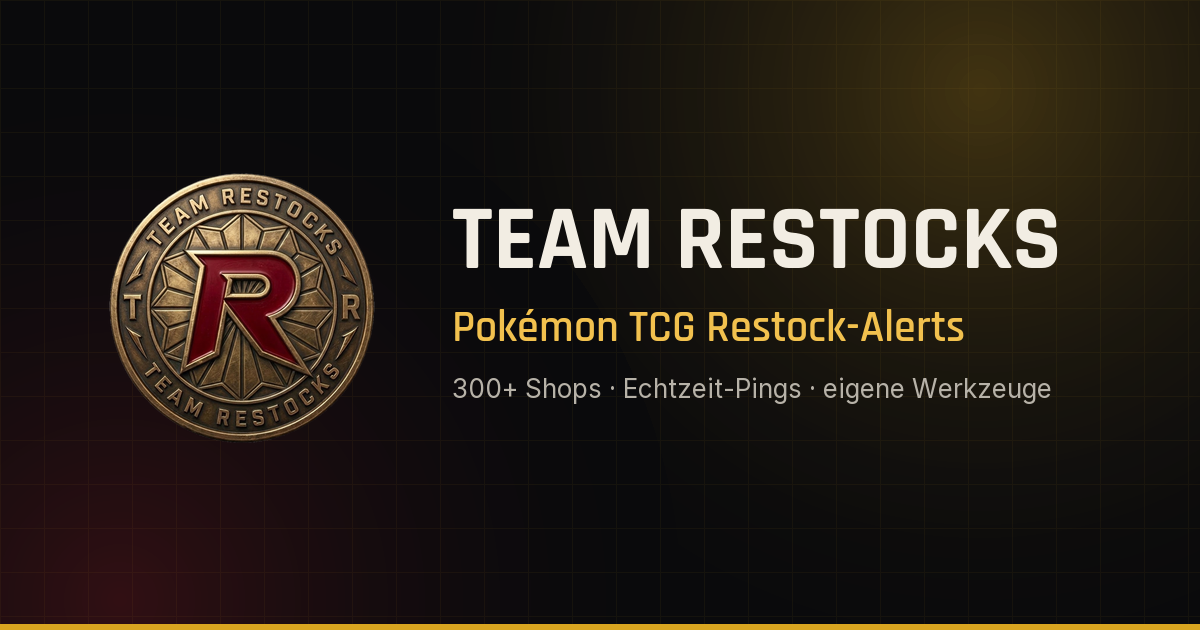
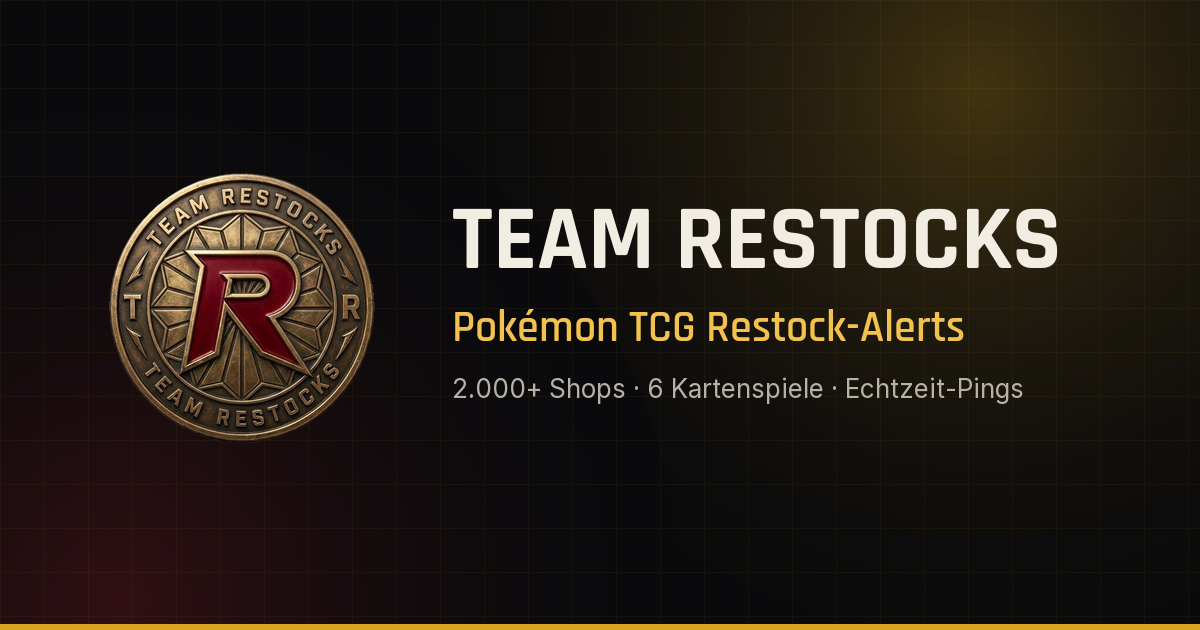
Raise monitor count to 2.000+ shops and widen the content
- Hero counter, process step, feature card and all meta descriptions now say
  2.000+ shops instead of 300+, and "Stores" becomes "Shops" throughout. The
  counter renders a German thousands separator (2.000+ instead of 2000+).
- Six card games instead of three: the monitor registry in monitor_api.py
  covers Pokémon, One Piece, Magic, Lorcana, Dragon Ball and Riftbound, but
  the site only advertised the first three. Hero text, feature card, FAQ and
  the structured data now name all six.
- New pill rows in the Leistungen section: the six card games and a selection
  of sixteen monitored shops, with a note that further shops and deal sources
  such as MyDealz and Reddit are covered.
- FAQ grown from five to nine entries: what a restock actually is, that
  nothing is ever bought automatically, coverage in Austria and Switzerland,
  and how to cancel (wording taken from AGB § 6, not invented). The FAQPage
  markup is regenerated from the visible accordion, so it stays in sync.
- Open Graph banner re-rendered with the new figures.
- Fixed a pre-existing responsive bug: .footer-links had no flex-wrap, so the
  seven footer links ran 16px out of the viewport at around 540px width.

Changed region(s): [[0.37, 0.6032, 0.8942, 0.6333]]

diff --git a/index.html b/index.html
@@ -4,7 +4,7 @@
 <meta charset="UTF-8">
 <meta name="viewport" content="width=device-width, initial-scale=1.0">
 <title>Pokémon TCG Restock-Alerts &amp; Monitor | Team Restocks</title>
-<meta name="description" content="Restock-Alerts für Pokémon TCG in Echtzeit: 300+ Shops im Monitor, exklusive Instore-Infos und eigene Werkzeuge für Sammler, Investoren &amp; Reseller.">
+<meta name="description" content="Restock-Alerts in Echtzeit für Pokémon, One Piece, Magic, Lorcana, Dragon Ball &amp; Riftbound: über 2.000 Shops im Monitor, Instore-Infos und eigene Werkzeuge.">
 <meta name="robots" content="index, follow, max-image-preview:large, max-snippet:-1">
 <meta name="theme-color" content="#0a0a0c">
 <meta name="author" content="Team Restocks">
@@ -14,7 +14,7 @@
 <meta property="og:site_name" content="Team Restocks">
 <meta property="og:locale" content="de_DE">
 <meta property="og:title" content="Team Restocks – Pokémon TCG Restock-Alerts in Echtzeit">
-<meta property="og:description" content="300+ Shops im Monitor, Instore-Infos, Filialbestands-Prüfer, Fake-Shop-Checker, Auto-fill und Multi Browser – für Sammler, Investoren und Reseller.">
+<meta property="og:description" content="2.000+ Shops im Monitor, sechs Kartenspiele, Instore-Infos und eigene Werkzeuge: Filialbestands-Prüfer, Fake-Shop-Checker, Auto-fill und Multi Browser.">
 <meta property="og:url" content="https://teamrestocks.de/">
 <meta property="og:image" content="https://teamrestocks.de/assets/og-image.png">
 <meta property="og:image:width" content="1200">
@@ -22,7 +22,7 @@
 <meta property="og:image:alt" content="Team Restocks – Pokémon TCG Restock-Alerts">
 <meta name="twitter:card" content="summary_large_image">
 <meta name="twitter:title" content="Team Restocks – Pokémon TCG Restock-Alerts in Echtzeit">
-<meta name="twitter:description" content="300+ Shops im Monitor, Instore-Infos, Filialbestands-Prüfer, Fake-Shop-Checker, Auto-fill und Multi Browser – für Sammler, Investoren und Reseller.">
+<meta name="twitter:description" content="2.000+ Shops im Monitor, sechs Kartenspiele, Instore-Infos und eigene Werkzeuge: Filialbestands-Prüfer, Fake-Shop-Checker, Auto-fill und Multi Browser.">
 <meta name="twitter:image" content="https://teamrestocks.de/assets/og-image.png">
 <meta name="twitter:image:alt" content="Team Restocks – Pokémon TCG Restock-Alerts">
 
@@ -34,7 +34,7 @@
 <link rel="preload" href="assets/fonts/inter-400-latin.woff2" as="font" type="font/woff2" crossorigin>
 <link rel="preload" href="assets/fonts/rajdhani-700-latin.woff2" as="font" type="font/woff2" crossorigin>
 <link rel="stylesheet" href="assets/fonts/fonts.css?v=1">
-<link rel="stylesheet" href="css/style.css?v=13">
+<link rel="stylesheet" href="css/style.css?v=14">
 
 <script type="application/ld+json">
 {
@@ -53,7 +53,7 @@
         "height": 512
       },
       "image": "https://teamrestocks.de/assets/og-image.png",
-      "description": "Community für Pokémon TCG, One Piece TCG und Magic: The Gathering mit Restock-Alerts in Echtzeit, Instore-Infos und eigenen Werkzeugen für Sammler, Investoren und Reseller.",
+      "description": "Community für Pokémon TCG, One Piece, Magic: The Gathering, Lorcana, Dragon Ball und Riftbound mit Restock-Alerts in Echtzeit, Instore-Infos und eigenen Werkzeugen für Sammler, Investoren und Reseller.",
       "email": "restock@teamrestocks.de",
       "address": {
         "@type": "PostalAddress",
@@ -91,7 +91,7 @@
       "@id": "https://teamrestocks.de/#webpage",
       "url": "https://teamrestocks.de/",
       "name": "Pokémon TCG Restock-Alerts & Monitor | Team Restocks",
-      "description": "Restock-Alerts für Pokémon TCG in Echtzeit: 300+ Shops im Monitor, exklusive Instore-Infos und eigene Werkzeuge für Sammler, Investoren & Reseller.",
+      "description": "Restock-Alerts in Echtzeit für Pokémon, One Piece, Magic, Lorcana, Dragon Ball & Riftbound: über 2.000 Shops im Monitor, Instore-Infos und eigene Werkzeuge.",
       "inLanguage": "de-DE",
       "isPartOf": {
         "@id": "https://teamrestocks.de/#website"
@@ -130,10 +130,10 @@
         },
         {
           "@type": "Question",
-          "name": "Welche Produkte überwacht ihr?",
+          "name": "Welche Kartenspiele überwacht ihr?",
           "acceptedAnswer": {
             "@type": "Answer",
-            "text": "Aktuell Pokémon TCG, One Piece TCG und Magic: The Gathering, dazu lokale und EU-weite Deals über MyDealz & Reddit."
+            "text": "Sechs Kartenspiele: Pokémon TCG, One Piece Card Game, Magic: The Gathering, Disney Lorcana, Dragon Ball Fusion World und Riftbound. Dazu lokale und EU-weite Deals über MyDealz & Reddit."
           }
         },
         {
@@ -142,6 +142,38 @@
           "acceptedAnswer": {
             "@type": "Answer",
             "text": "Ja. Filialbestands-Prüfer, Fake-Shop-Checker, Auto-fill Addon und Multi Browser sind für aktive Mitglieder freigeschaltet — die Anmeldung läuft über dein Discord-Konto. Zu jedem Werkzeug gibt es eine Schritt-für-Schritt-Anleitung."
+          }
+        },
+        {
+          "@type": "Question",
+          "name": "Was ist ein Restock überhaupt?",
+          "acceptedAnswer": {
+            "@type": "Answer",
+            "text": "Ein Restock ist der Moment, in dem ein ausverkauftes Produkt wieder in den Bestand eines Shops läuft — oft ohne Ankündigung und nach wenigen Minuten wieder weg. Genau diese Momente melden unsere Monitore, zusammen mit dem Direktlink zum Produkt."
+          }
+        },
+        {
+          "@type": "Question",
+          "name": "Kauft ihr automatisch für mich ein?",
+          "acceptedAnswer": {
+            "@type": "Answer",
+            "text": "Nein. Wir melden dir Verfügbarkeiten und erleichtern dir den Checkout — bestellt wird nie automatisch. Auch das Auto-fill Addon trägt nur deine eigenen Daten ein; den Kauf schließt du immer selbst ab."
+          }
+        },
+        {
+          "@type": "Question",
+          "name": "Funktioniert das auch in Österreich und der Schweiz?",
+          "acceptedAnswer": {
+            "@type": "Answer",
+            "text": "Ja. Neben Deutschland überwachen wir Shops in Österreich, der Schweiz und weiteren EU-Ländern. Der Filialbestands-Prüfer deckt derzeit deutsche Filialisten ab."
+          }
+        },
+        {
+          "@type": "Question",
+          "name": "Wie kündige ich die Mitgliedschaft?",
+          "acceptedAnswer": {
+            "@type": "Answer",
+            "text": "Die Mitgliedschaft läuft monatlich und ist jederzeit zum Ende des bereits bezahlten Abrechnungszeitraums kündbar — über die Kündigungsfunktion auf der Beitrittsseite oder per E-Mail an restock@teamrestocks.de. Details stehen in unseren AGB."
           }
         },
         {
@@ -200,8 +232,8 @@
       <h1 class="reveal">Verpasse nie wieder<br><span class="text-gold">einen Restock.</span></h1>
       <p class="hero-sub reveal">
         🔥 Restocks · Neue Releases · Deals &nbsp;—&nbsp; 💎 Für Sammler, Investoren &amp; Reseller.
-        Team Restocks überwacht Pokémon, One&nbsp;Piece &amp; Magic: The Gathering in Echtzeit, damit du deinem
-        nächsten Drop immer einen Schritt voraus bist.
+        Team Restocks überwacht Pokémon, One&nbsp;Piece, Magic, Lorcana, Dragon&nbsp;Ball und Riftbound in
+        Echtzeit, damit du deinem nächsten Drop immer einen Schritt voraus bist.
       </p>
       <div class="hero-actions reveal">
         <a href="https://joinourserver.com/teamrestocks" target="_blank" rel="noopener" class="btn btn-primary btn-pulse">
@@ -215,7 +247,7 @@
       </div>
 
       <div class="hero-stats reveal">
-        <div class="stat"><span class="stat-num" data-count="300" data-suffix="+">0</span><span class="stat-label">überwachte Stores</span></div>
+        <div class="stat"><span class="stat-num" data-count="2000" data-suffix="+">0</span><span class="stat-label">überwachte Shops</span></div>
         <div class="stat"><span class="stat-num" data-static="24/7">0</span><span class="stat-label">Support</span></div>
       </div>
     </div>
@@ -252,7 +284,7 @@
           <span class="process-num">02</span>
           <div class="process-icon">🔔</div>
           <h3>Restock-Ping erhalten</h3>
-          <p>Unsere Monitore scannen 300+ Stores rund um die Uhr und pingen dich in Echtzeit an.</p>
+          <p>Unsere Monitore scannen über 2.000 Shops rund um die Uhr und pingen dich in Echtzeit an.</p>
         </div>
         <div class="process-card reveal">
           <span class="process-num">03</span>
@@ -273,8 +305,8 @@
       <div class="feature-grid">
         <div class="feature-card reveal">
           <div class="feature-icon">🛰</div>
-          <h3>Monitoring von 300+ Stores</h3>
-          <p>Wir überwachen laufend über 300 Stores in DE &amp; EU auf Lagerbestand und neue Drops.</p>
+          <h3>Monitoring von 2.000+ Shops</h3>
+          <p>Wir überwachen laufend über 2.000 Shops in DE, AT, CH und der EU auf Lagerbestand und neue Drops — vom großen Händler bis zum kleinen TCG-Laden.</p>
         </div>
         <div class="feature-card reveal">
           <div class="feature-icon">🔔</div>
@@ -283,8 +315,9 @@
         </div>
         <div class="feature-card reveal">
           <div class="feature-icon">🃏</div>
-          <h3>Pokémon, One Piece &amp; Magic</h3>
-          <p>Eigene Monitor-Channels für Pokémon TCG, One Piece TCG und Magic: The Gathering.</p>
+          <h3>Sechs Kartenspiele im Blick</h3>
+          <p>Eigene Monitor-Channels für Pokémon, One Piece, Magic: The Gathering, Lorcana,
+            Dragon Ball und Riftbound.</p>
         </div>
         <div class="feature-card reveal">
           <div class="feature-icon">🏬</div>
@@ -304,6 +337,18 @@
       </div>
 
       <div class="regions reveal">
+        <p class="regions-label">Überwachte Kartenspiele</p>
+        <div class="regions-flags">
+          <span class="flag-pill">Pokémon TCG</span>
+          <span class="flag-pill">One Piece Card Game</span>
+          <span class="flag-pill">Magic: The Gathering</span>
+          <span class="flag-pill">Disney Lorcana</span>
+          <span class="flag-pill">Dragon Ball Fusion World</span>
+          <span class="flag-pill">Riftbound</span>
+        </div>
+      </div>
+
+      <div class="regions reveal">
         <p class="regions-label">Abgedeckte Regionen</p>
         <div class="regions-flags">
           <span class="flag-pill">🇩🇪 Deutschland</span>
@@ -311,6 +356,32 @@
           <span class="flag-pill">🇨🇭 Schweiz</span>
           <span class="flag-pill">🇪🇺 weitere EU-Länder</span>
         </div>
+      </div>
+
+      <div class="regions reveal">
+        <p class="regions-label">Shops im Monitor &mdash; eine Auswahl</p>
+        <div class="regions-flags">
+          <span class="flag-pill">Pokémon Center</span>
+          <span class="flag-pill">Thalia</span>
+          <span class="flag-pill">Netto-Online</span>
+          <span class="flag-pill">Elbenwald</span>
+          <span class="flag-pill">Games Island</span>
+          <span class="flag-pill">Card Corner</span>
+          <span class="flag-pill">Card Cosmos</span>
+          <span class="flag-pill">Card Knights</span>
+          <span class="flag-pill">CardsFerret</span>
+          <span class="flag-pill">Comic Planet</span>
+          <span class="flag-pill">Trader Online</span>
+          <span class="flag-pill">Mighty Cards</span>
+          <span class="flag-pill">Gamers Academy</span>
+          <span class="flag-pill">Yonko TCG</span>
+          <span class="flag-pill">LMS-Handel</span>
+          <span class="flag-pill">Hunter Collectors</span>
+        </div>
+        <p class="regions-note">
+          Dazu viele weitere Online-Shops, Filialisten und Deal-Quellen wie MyDealz und Reddit.
+          Kommt ein Shop neu dazu, läuft der Monitor meist am selben Tag.
+        </p>
       </div>
     </div>
   </section>
@@ -737,12 +808,28 @@
           <div class="accordion-panel"><p>Nein. Ob Sammler, Einsteiger oder erfahrener Reseller — unsere Guides und der Support helfen dir beim Start.</p></div>
         </div>
         <div class="accordion-item">
-          <button class="accordion-trigger">Welche Produkte überwacht ihr?<span class="accordion-plus">+</span></button>
-          <div class="accordion-panel"><p>Aktuell Pokémon TCG, One Piece TCG und Magic: The Gathering, dazu lokale und EU-weite Deals über MyDealz &amp; Reddit.</p></div>
+          <button class="accordion-trigger">Welche Kartenspiele überwacht ihr?<span class="accordion-plus">+</span></button>
+          <div class="accordion-panel"><p>Sechs Kartenspiele: Pokémon TCG, One Piece Card Game, Magic: The Gathering, Disney Lorcana, Dragon Ball Fusion World und Riftbound. Dazu lokale und EU-weite Deals über MyDealz &amp; Reddit.</p></div>
         </div>
         <div class="accordion-item">
           <button class="accordion-trigger">Sind die Tools in der Mitgliedschaft enthalten?<span class="accordion-plus">+</span></button>
           <div class="accordion-panel"><p>Ja. Filialbestands-Prüfer, Fake-Shop-Checker, Auto-fill Addon und Multi Browser sind für aktive Mitglieder freigeschaltet — die Anmeldung läuft über dein Discord-Konto. Zu jedem Werkzeug gibt es eine Schritt-für-Schritt-Anleitung.</p></div>
+        </div>
+        <div class="accordion-item">
+          <button class="accordion-trigger">Was ist ein Restock überhaupt?<span class="accordion-plus">+</span></button>
+          <div class="accordion-panel"><p>Ein Restock ist der Moment, in dem ein ausverkauftes Produkt wieder in den Bestand eines Shops läuft — oft ohne Ankündigung und nach wenigen Minuten wieder weg. Genau diese Momente melden unsere Monitore, zusammen mit dem Direktlink zum Produkt.</p></div>
+        </div>
+        <div class="accordion-item">
+          <button class="accordion-trigger">Kauft ihr automatisch für mich ein?<span class="accordion-plus">+</span></button>
+          <div class="accordion-panel"><p>Nein. Wir melden dir Verfügbarkeiten und erleichtern dir den Checkout — bestellt wird nie automatisch. Auch das Auto-fill Addon trägt nur deine eigenen Daten ein; den Kauf schließt du immer selbst ab.</p></div>
+        </div>
+        <div class="accordion-item">
+          <button class="accordion-trigger">Funktioniert das auch in Österreich und der Schweiz?<span class="accordion-plus">+</span></button>
+          <div class="accordion-panel"><p>Ja. Neben Deutschland überwachen wir Shops in Österreich, der Schweiz und weiteren EU-Ländern. Der Filialbestands-Prüfer deckt derzeit deutsche Filialisten ab.</p></div>
+        </div>
+        <div class="accordion-item">
+          <button class="accordion-trigger">Wie kündige ich die Mitgliedschaft?<span class="accordion-plus">+</span></button>
+          <div class="accordion-panel"><p>Die Mitgliedschaft läuft monatlich und ist jederzeit zum Ende des bereits bezahlten Abrechnungszeitraums kündbar — über die Kündigungsfunktion auf der Beitrittsseite oder per E-Mail an restock@teamrestocks.de. Details stehen in unseren AGB.</p></div>
         </div>
         <div class="accordion-item">
           <button class="accordion-trigger">Wie schnell sind die Alerts?<span class="accordion-plus">+</span></button>
@@ -786,6 +873,6 @@
 </footer>
 
 <script src="js/consent.js?v=1"></script>
-<script src="js/script.js?v=11"></script>
+<script src="js/script.js?v=12"></script>
 </body>
 </html>

diff --git a/css/style.css b/css/style.css
@@ -494,6 +494,13 @@ picture { display: contents; }
   margin-bottom: 16px;
 }
 .regions-flags { display: flex; flex-wrap: wrap; gap: 12px; justify-content: center; }
+
+.regions-note {
+  color: var(--text-muted);
+  font-size: 14px;
+  max-width: 620px;
+  margin: 18px auto 0;
+}
 .flag-pill {
   background: var(--black-card);
   border: 1px solid var(--border);
@@ -736,7 +743,7 @@ picture { display: contents; }
 .footer-brand { gap: 10px; }
 .footer-logo { width: 32px; height: 32px; }
 .footer-brand .brand-name { font-size: 13px; }
-.footer-links { display: flex; gap: 22px; font-size: 14px; color: var(--text-muted); }
+.footer-links { display: flex; flex-wrap: wrap; gap: 12px 22px; font-size: 14px; color: var(--text-muted); }
 .footer-links a:hover { color: var(--gold-light); }
 .footer-copy { color: var(--text-muted); font-size: 13px; margin: 0; }
 

diff --git a/widerruf.html b/widerruf.html
@@ -34,7 +34,7 @@
 <link rel="preload" href="assets/fonts/inter-400-latin.woff2" as="font" type="font/woff2" crossorigin>
 <link rel="preload" href="assets/fonts/rajdhani-700-latin.woff2" as="font" type="font/woff2" crossorigin>
 <link rel="stylesheet" href="assets/fonts/fonts.css?v=1">
-<link rel="stylesheet" href="css/style.css?v=13">
+<link rel="stylesheet" href="css/style.css?v=14">
 
 <script type="application/ld+json">
 {
@@ -257,7 +257,7 @@
 </footer>
 
 <script src="js/consent.js?v=1"></script>
-<script src="js/script.js?v=11"></script>
+<script src="js/script.js?v=12"></script>
 <script src="js/widerruf.js?v=1"></script>
 </body>
 </html>

diff --git a/js/script.js b/js/script.js
@@ -75,7 +75,7 @@ function animateCount(el) {
   const suffix = el.dataset.suffix || '';
 
   if (reducedMotion) {
-    el.textContent = target + suffix;
+    el.textContent = target.toLocaleString('de-DE') + suffix;
     return;
   }
 
@@ -85,7 +85,7 @@ function animateCount(el) {
   function tick(now) {
     const progress = Math.min((now - start) / duration, 1);
     const eased = 1 - Math.pow(1 - progress, 3);
-    el.textContent = Math.round(eased * target) + suffix;
+    el.textContent = Math.round(eased * target).toLocaleString('de-DE') + suffix;
     if (progress < 1) requestAnimationFrame(tick);
   }
   requestAnimationFrame(tick);

diff --git a/agb.html b/agb.html
@@ -34,7 +34,7 @@
 <link rel="preload" href="assets/fonts/inter-400-latin.woff2" as="font" type="font/woff2" crossorigin>
 <link rel="preload" href="assets/fonts/rajdhani-700-latin.woff2" as="font" type="font/woff2" crossorigin>
 <link rel="stylesheet" href="assets/fonts/fonts.css?v=1">
-<link rel="stylesheet" href="css/style.css?v=13">
+<link rel="stylesheet" href="css/style.css?v=14">
 
 <script type="application/ld+json">
 {
@@ -561,6 +561,6 @@
 </footer>
 
 <script src="js/consent.js?v=1"></script>
-<script src="js/script.js?v=11"></script>
+<script src="js/script.js?v=12"></script>
 </body>
 </html>

diff --git a/datenschutz.html b/datenschutz.html
@@ -34,7 +34,7 @@
 <link rel="preload" href="assets/fonts/inter-400-latin.woff2" as="font" type="font/woff2" crossorigin>
 <link rel="preload" href="assets/fonts/rajdhani-700-latin.woff2" as="font" type="font/woff2" crossorigin>
 <link rel="stylesheet" href="assets/fonts/fonts.css?v=1">
-<link rel="stylesheet" href="css/style.css?v=13">
+<link rel="stylesheet" href="css/style.css?v=14">
 
 <script type="application/ld+json">
 {
@@ -235,6 +235,6 @@
 </footer>
 
 <script src="js/consent.js?v=1"></script>
-<script src="js/script.js?v=11"></script>
+<script src="js/script.js?v=12"></script>
 </body>
 </html>

diff --git a/impressum.html b/impressum.html
@@ -34,7 +34,7 @@
 <link rel="preload" href="assets/fonts/inter-400-latin.woff2" as="font" type="font/woff2" crossorigin>
 <link rel="preload" href="assets/fonts/rajdhani-700-latin.woff2" as="font" type="font/woff2" crossorigin>
 <link rel="stylesheet" href="assets/fonts/fonts.css?v=1">
-<link rel="stylesheet" href="css/style.css?v=13">
+<link rel="stylesheet" href="css/style.css?v=14">
 
 <script type="application/ld+json">
 {
@@ -185,6 +185,6 @@
 </footer>
 
 <script src="js/consent.js?v=1"></script>
-<script src="js/script.js?v=11"></script>
+<script src="js/script.js?v=12"></script>
 </body>
 </html>

diff --git a/404.html b/404.html
@@ -15,7 +15,7 @@
 <link rel="preload" href="/assets/fonts/inter-400-latin.woff2" as="font" type="font/woff2" crossorigin>
 <link rel="preload" href="/assets/fonts/rajdhani-700-latin.woff2" as="font" type="font/woff2" crossorigin>
 <link rel="stylesheet" href="/assets/fonts/fonts.css?v=1">
-<link rel="stylesheet" href="/css/style.css?v=13">
+<link rel="stylesheet" href="/css/style.css?v=14">
 </head>
 <body>
 
@@ -79,6 +79,6 @@
 </footer>
 
 <script src="/js/consent.js?v=1"></script>
-<script src="/js/script.js?v=11"></script>
+<script src="/js/script.js?v=12"></script>
 </body>
 </html>
